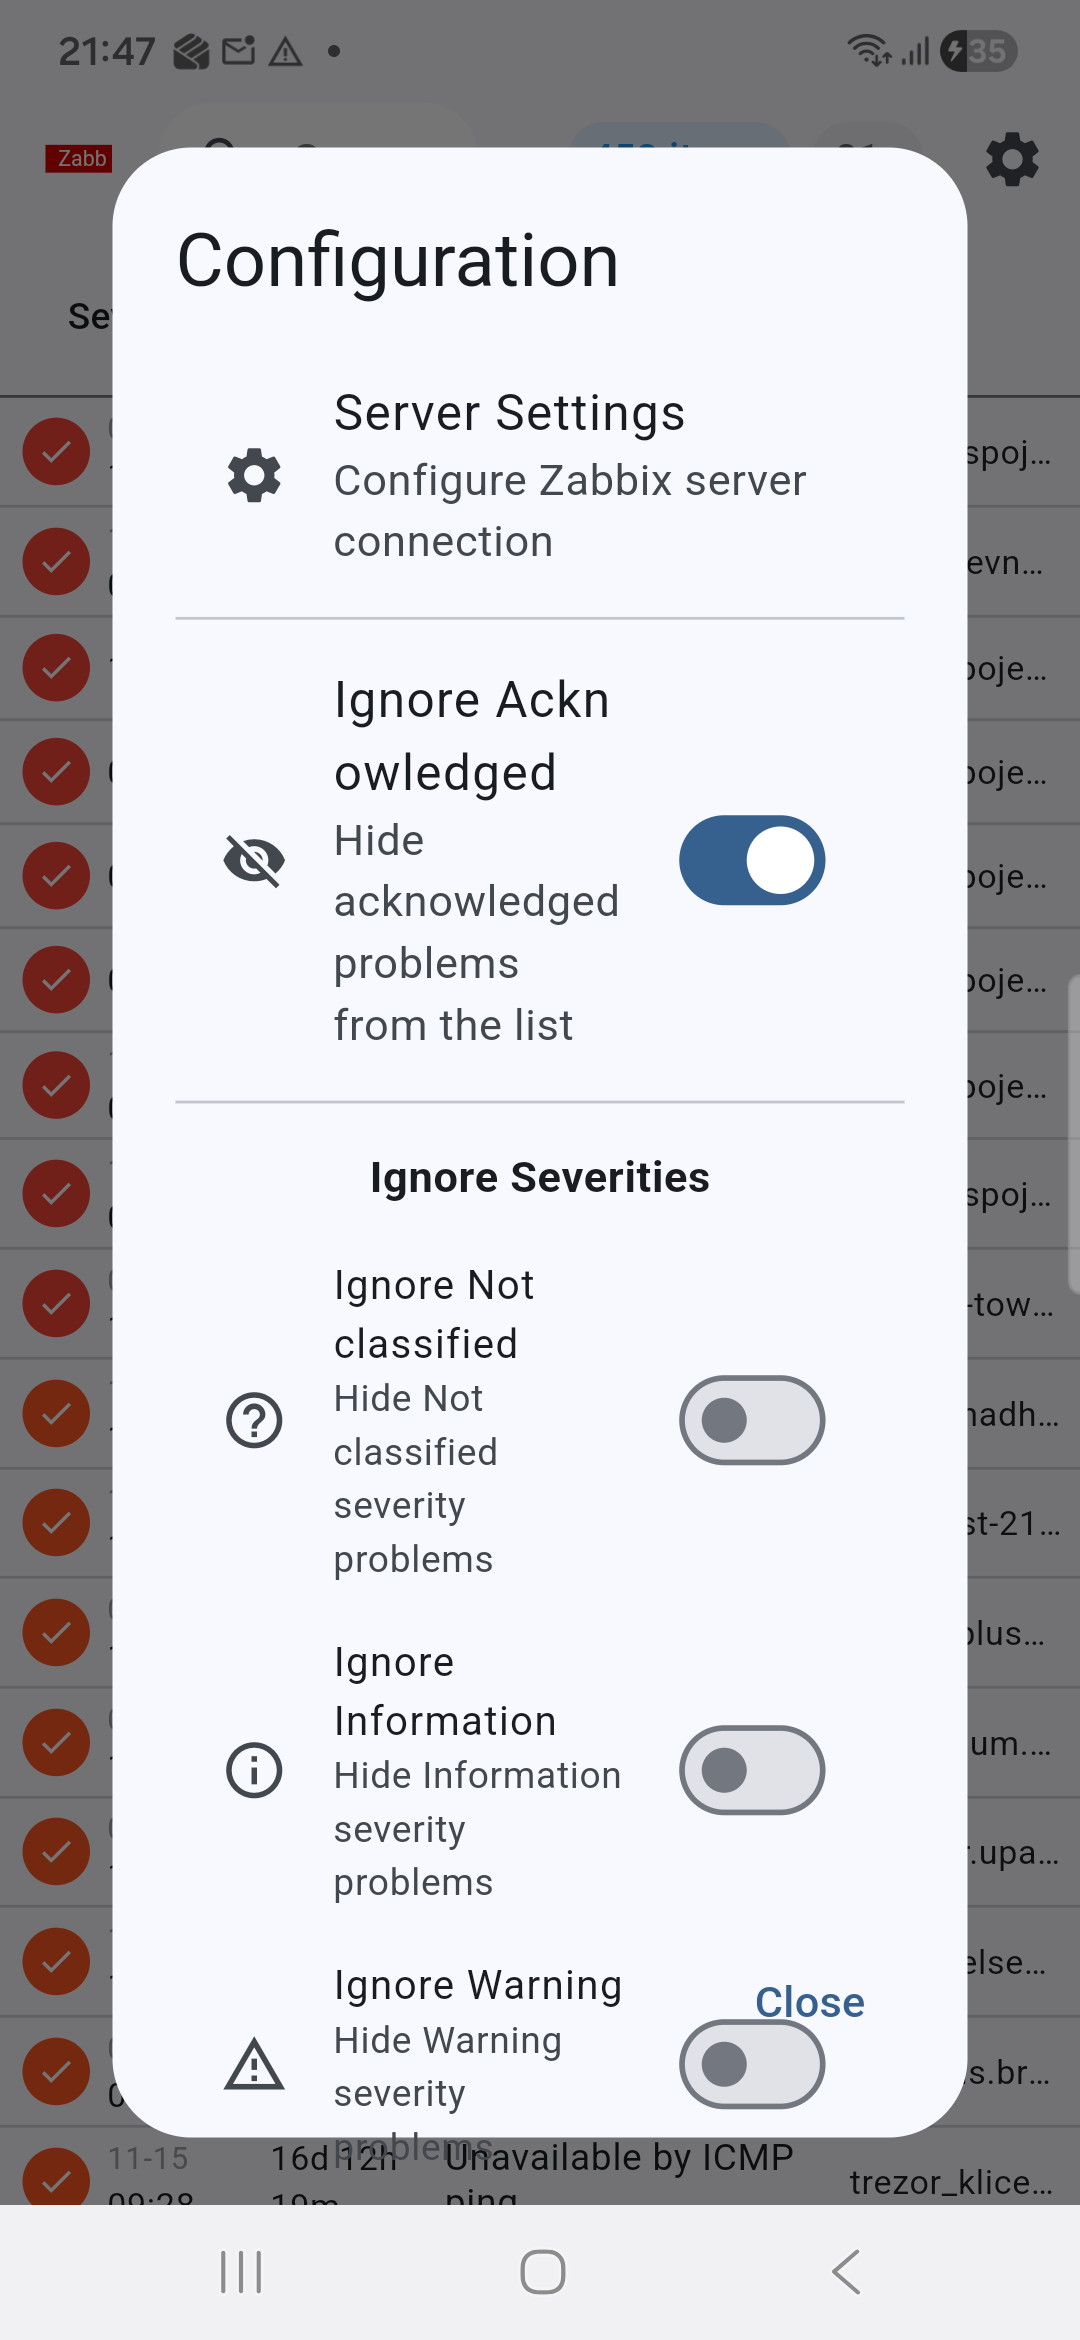
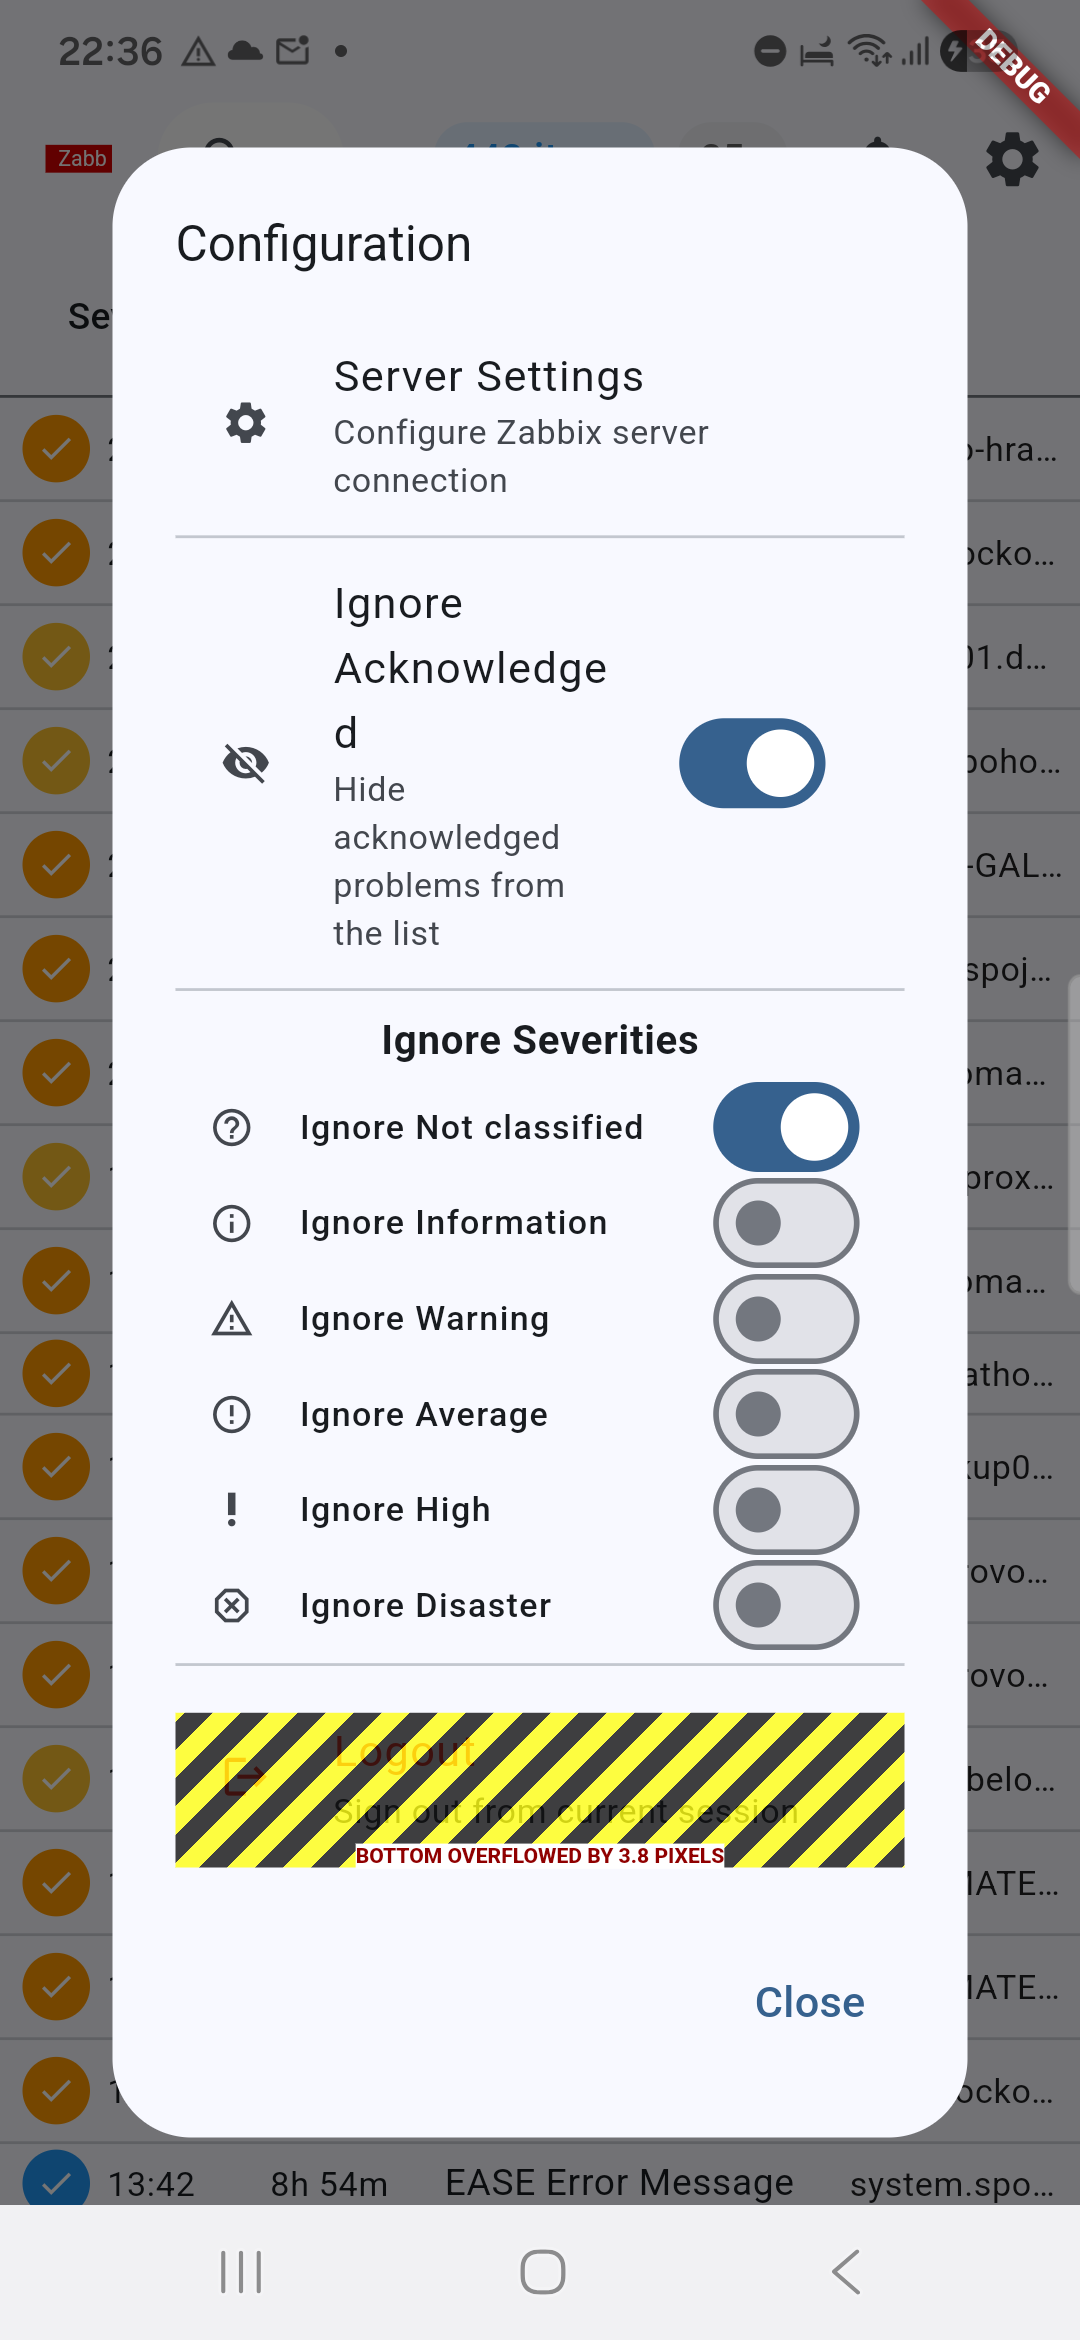
Fix configuration dialog overflow with smaller fonts
- Reduced title font size from 16 to 14
- Reduced server settings fonts from 14/11 to 12/10
- Reduced ignore acknowledged fonts from 14/11 to 12/10
- Reduced ignore severities title font from 13 to 11
- Reduced logout section fonts from 14/11 to 12/10
- Reduced severity switches font from 11 to 10
- Decreased content padding from 12 to 8 horizontal pixels
- Eliminated 'BOTTOM OVERFLOWED BY 3.8 PIXELS' error
- Improved mobile layout compactness for configuration screen

diff --git a/lib/screens/problems_screen.dart b/lib/screens/problems_screen.dart
@@ -232,14 +232,14 @@ class _ProblemsScreenState extends State<ProblemsScreen> {
     showDialog(
       context: context,
       builder: (context) => AlertDialog(
-        title: const Text('Configuration', style: TextStyle(fontSize: 16)),
+        title: const Text('Configuration', style: TextStyle(fontSize: 14)),
         content: Column(
           mainAxisSize: MainAxisSize.min,
           children: [
             ListTile(
               leading: const Icon(Icons.settings, size: 18),
-              title: const Text('Server Settings', style: TextStyle(fontSize: 14)),
-              subtitle: const Text('Configure Zabbix server connection', style: TextStyle(fontSize: 11)),
+              title: const Text('Server Settings', style: TextStyle(fontSize: 12)),
+              subtitle: const Text('Configure Zabbix server connection', style: TextStyle(fontSize: 10)),
               onTap: () {
                 Navigator.pop(context);
                 Navigator.pushNamed(context, '/configure');
@@ -248,8 +248,8 @@ class _ProblemsScreenState extends State<ProblemsScreen> {
             ),
             const Divider(height: 8),
             SwitchListTile(
-              title: const Text('Ignore Acknowledged', style: TextStyle(fontSize: 14)),
-              subtitle: const Text('Hide acknowledged problems from the list', style: TextStyle(fontSize: 11)),
+              title: const Text('Ignore Acknowledged', style: TextStyle(fontSize: 12)),
+              subtitle: const Text('Hide acknowledged problems from the list', style: TextStyle(fontSize: 10)),
               value: _ignoreAcknowledged,
               onChanged: (value) {
                 _saveIgnoreAcknowledgedSetting(value);
@@ -261,14 +261,14 @@ class _ProblemsScreenState extends State<ProblemsScreen> {
             const Divider(height: 8),
             const Padding(
               padding: EdgeInsets.symmetric(horizontal: 16, vertical: 4),
-              child: Text('Ignore Severities', style: TextStyle(fontWeight: FontWeight.bold, fontSize: 13)),
+              child: Text('Ignore Severities', style: TextStyle(fontWeight: FontWeight.bold, fontSize: 11)),
             ),
             ..._buildSeveritySwitches(context),
             const Divider(height: 8),
             ListTile(
               leading: const Icon(Icons.logout, color: Colors.red, size: 18),
-              title: const Text('Logout', style: TextStyle(color: Colors.red, fontSize: 14)),
-              subtitle: const Text('Sign out from current session', style: TextStyle(fontSize: 11)),
+              title: const Text('Logout', style: TextStyle(color: Colors.red, fontSize: 12)),
+              subtitle: const Text('Sign out from current session', style: TextStyle(fontSize: 10)),
               onTap: () async {
                 Navigator.pop(context); // Close dialog first
                 try {
@@ -940,7 +940,7 @@ class _ProblemsScreenState extends State<ProblemsScreen> {
       final icon = severityIcons[severity] ?? Icons.circle_outlined;
       
       return SwitchListTile(
-        title: Text('Ignore $name', style: const TextStyle(fontSize: 11, fontWeight: FontWeight.w500)),
+        title: Text('Ignore $name', style: const TextStyle(fontSize: 10, fontWeight: FontWeight.w500)),
         subtitle: null,
         value: _ignoreSeverities[severity] ?? false,
         onChanged: (value) {
@@ -948,7 +948,7 @@ class _ProblemsScreenState extends State<ProblemsScreen> {
         },
         secondary: Icon(icon, size: 16),
         dense: true,
-        contentPadding: const EdgeInsets.symmetric(horizontal: 12, vertical: -2),
+        contentPadding: const EdgeInsets.symmetric(horizontal: 8, vertical: -4),
         visualDensity: const VisualDensity(horizontal: -4, vertical: -4),
       );
     }).toList();

diff --git a/lib/main.dart b/lib/main.dart
@@ -161,8 +161,8 @@ class _LoginScreenState extends State<LoginScreen> {
             left: 16,
             child: Image.asset(
               'assets/nymfette3-smile.png',
-              width: 64,
-              height: 64,
+              width: 640,
+              height: 640,
             ),
           ),
         ],
